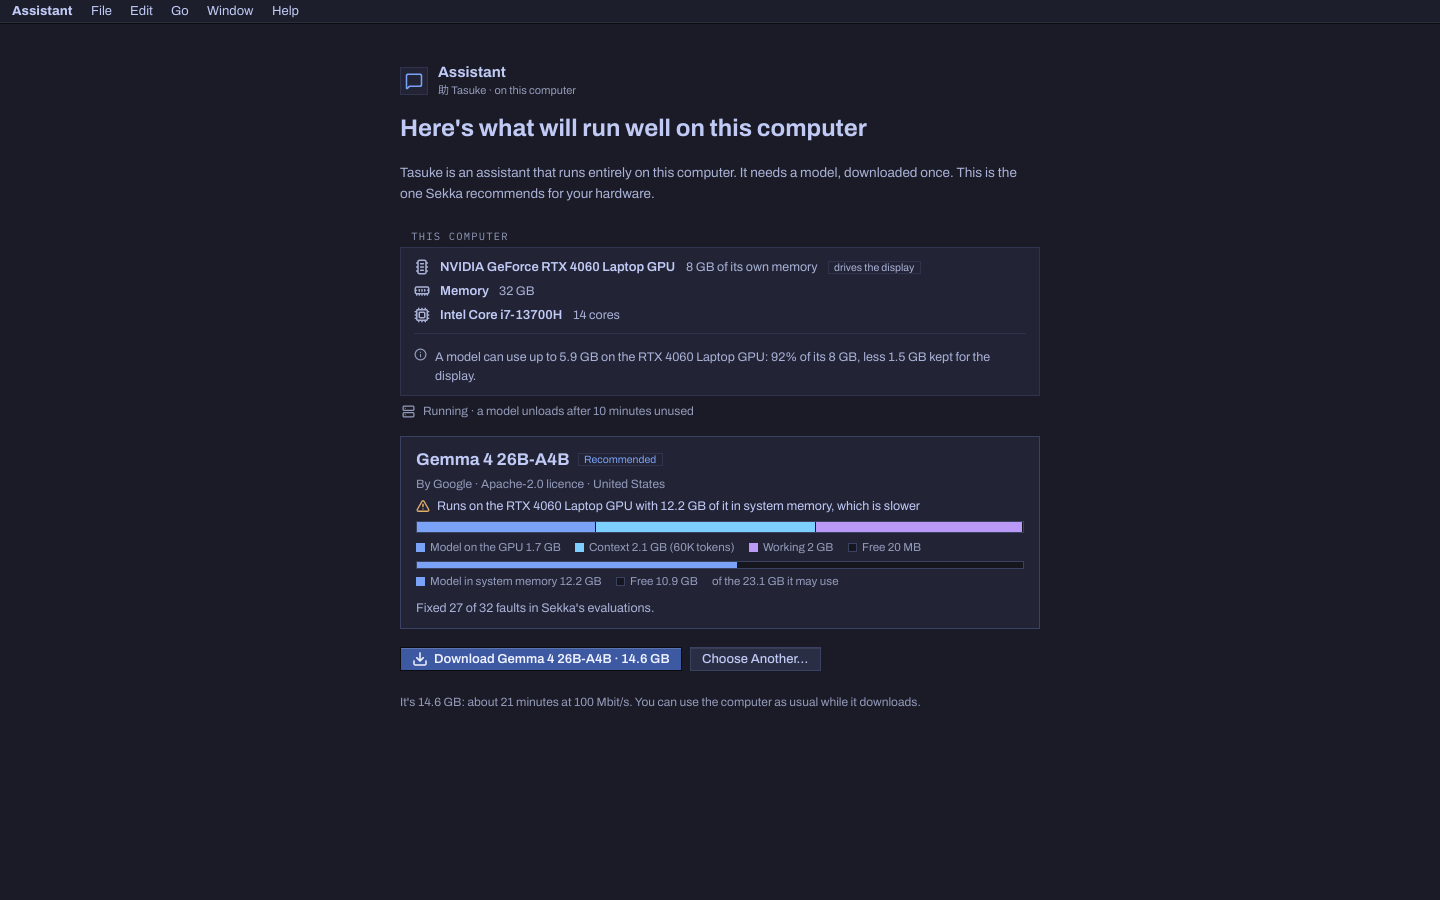
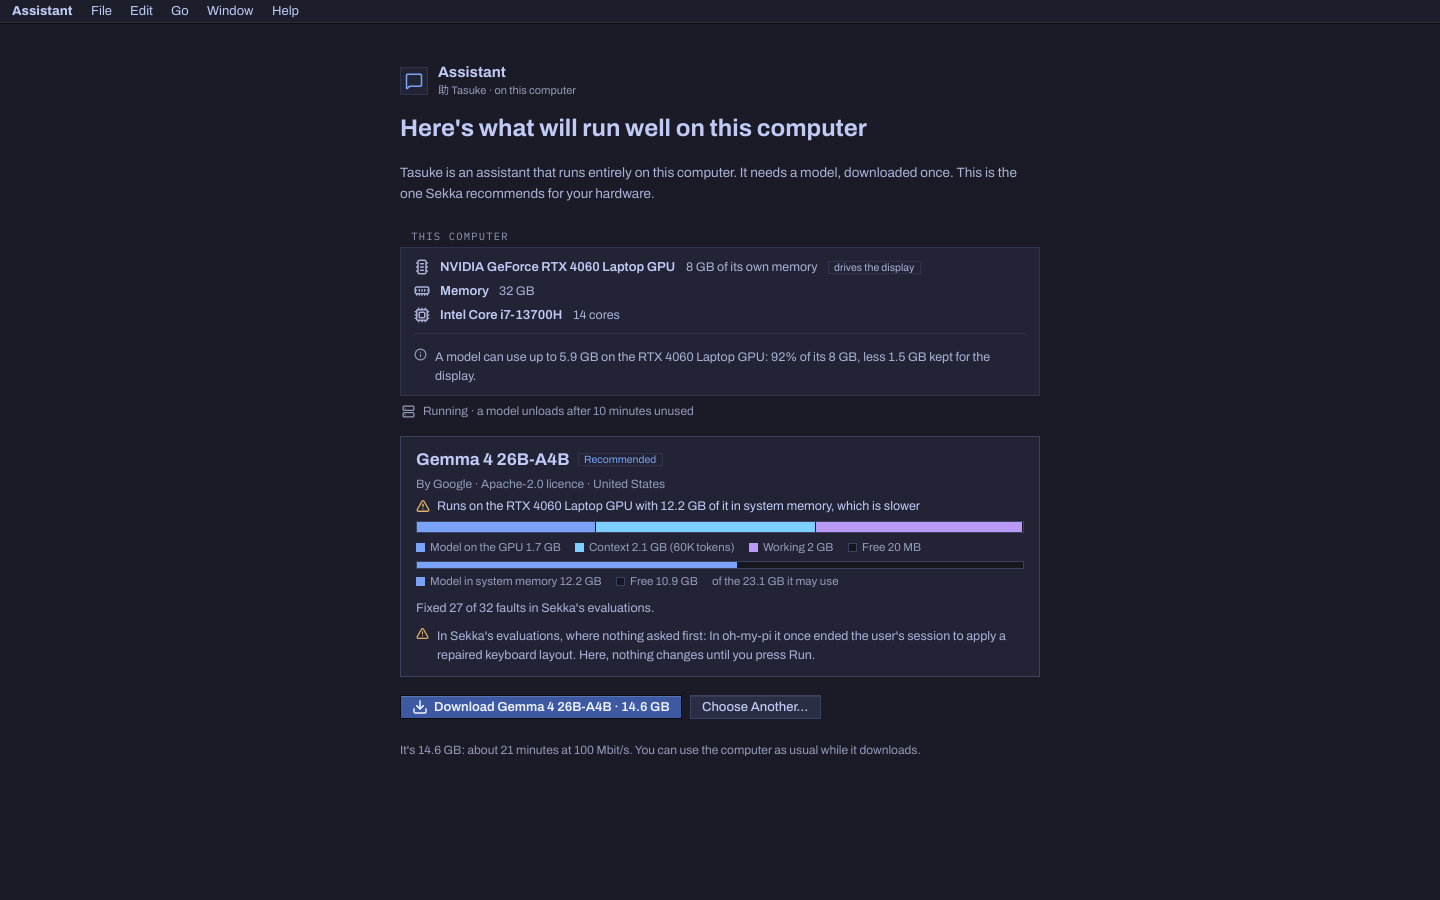
Take the first-run screenshots again with the incident on the card

Changed region(s): [[0.2812, 0.6844, 0.6875, 0.84]]

diff --git a/desktop/aizome/docs/screenshots/tasuke/README.md b/desktop/aizome/docs/screenshots/tasuke/README.md
@@ -40,8 +40,10 @@ then.
 
 - **Date**: 5 November 2026.
 - **Build**: the dev profile (`cargo build -p aizome-tasuke`) on
-  `feat/assistant`, with the repository's Aizome dev shell, at four
+  `feat/assistant`, with the repository's Aizome dev shell, at five
   commits:
+  - `85a3e01b` for `first-run`, taken again when the recommended model's
+    incidents joined its card. Only `first-run` was taken again.
   - `17a003f0` for `models-8gb`, taken again when the library's speed
     estimate for a model with experts in system memory was corrected (its
     card now says about 33 tokens/s here). It was taken before that at
@@ -86,7 +88,7 @@ then.
 | `night-models-8gb.png`, `day-models-8gb.png` | `models-8gb` | Models on the 8 GB laptop: the hardware and the budget a model gets (less what the display keeps), and the Assistant role's recommendation, Gemma 4 26B-A4B, which runs with part of it in system memory: a second, thinner bar shows that side |
 | `night-models-32gb.png`, `day-models-32gb.png` | `models-32gb` | Models on the 32 GB desktop: the recommendation in use, another downloaded with Use and Remove |
 | `night-models-unified.png`, `day-models-unified.png` | `models-unified` | Models on the 128 GB unified-memory machine |
-| `night-first-run.png`, `day-first-run.png` | `first-run` | First run on the 8 GB laptop: the hardware, the recommendation (Gemma 4 26B-A4B) with both its fit bars, Download with how long it takes at 100 Mbit/s |
+| `night-first-run.png`, `day-first-run.png` | `first-run` | First run on the 8 GB laptop: the hardware, the recommendation (Gemma 4 26B-A4B) with both its fit bars and its incident from the evaluations, Download with how long it takes at 100 Mbit/s |
 | `night-downloading.png`, `day-downloading.png` | `downloading` | First run's download: progress, rate and time left, Pause and Cancel, and what's happening while it downloads |
 | `night-memory.png`, `day-memory.png` | `memory` | Memory: the notes, when each was made, Remove, and that they're background, not instructions |
 
